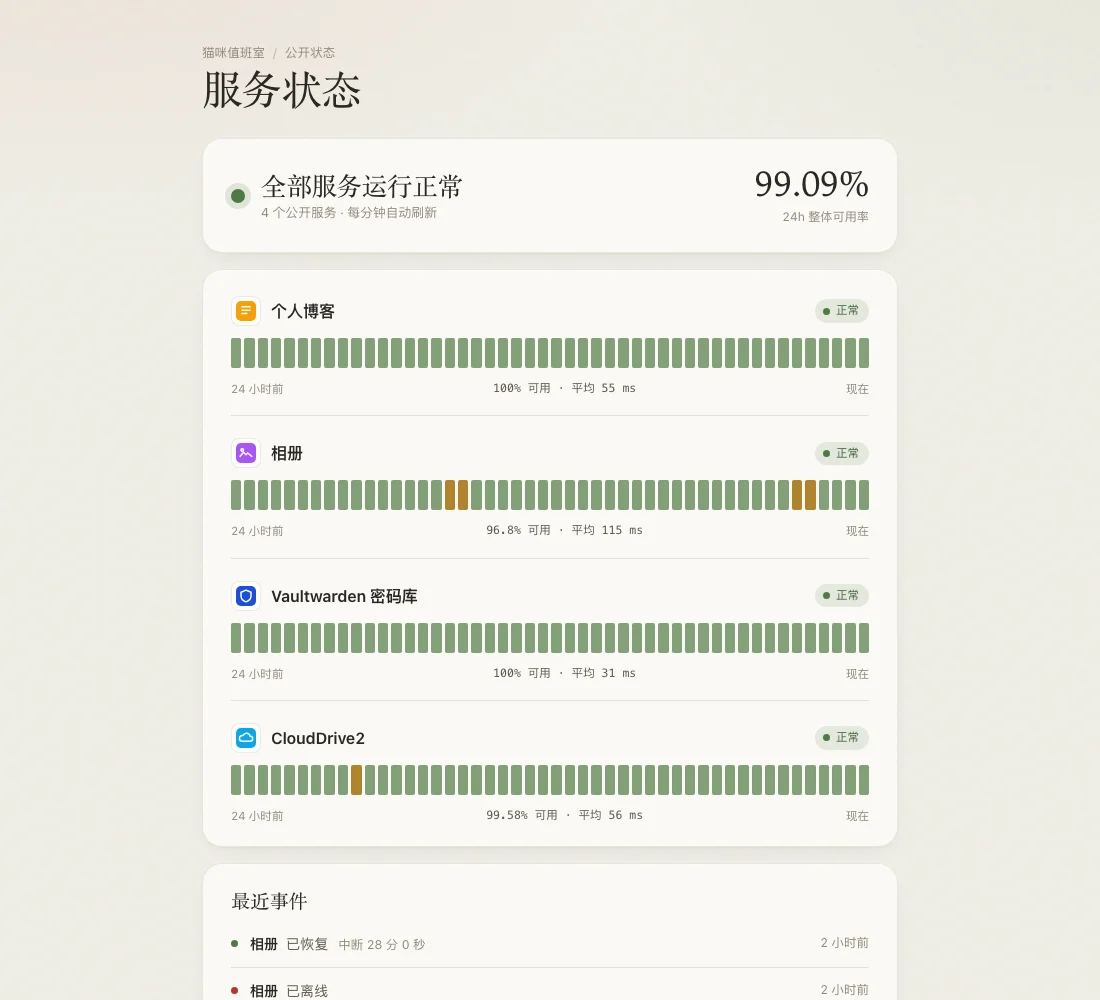
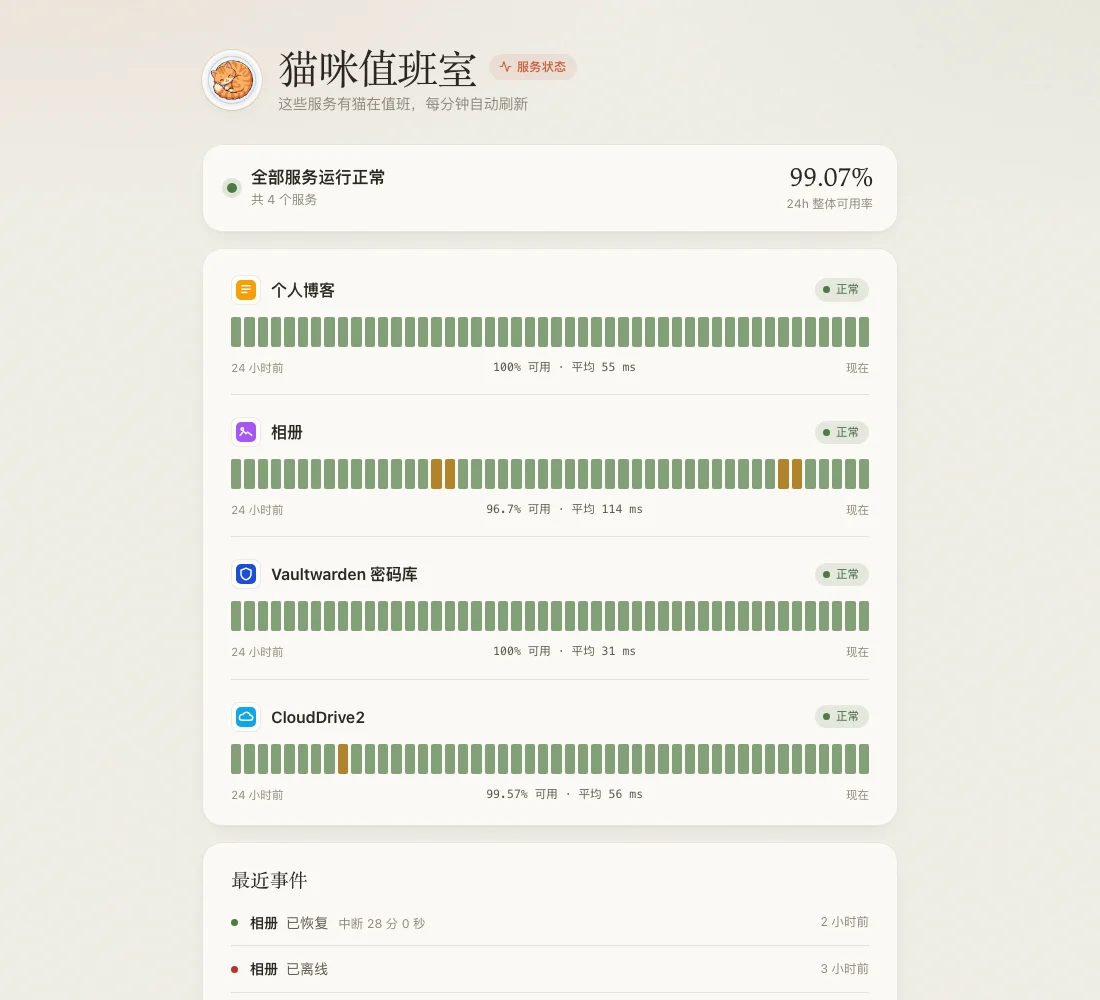
style: status page leads with the brand, with a small 服务状态 tag
The status page had two big headings fighting each other: a serif
"服务状态" title and an equally large "全部服务运行正常" banner.

- Header now mirrors the home page: cat avatar + 猫咪值班室 as the title,
  a small accent tag "服务状态" with a pulse icon, and a one-line note.
- The overall banner is a compact row (semibold sans text, smaller dot
  and uptime figure) and stays on one row on phones.
- Avatar is a 160px copy bundled under /assets/ so it loads for public
  visitors even when only the status paths bypass access control.
- README status screenshot refreshed.

diff --git a/src/style.css b/src/style.css
@@ -1519,6 +1519,42 @@ a {
   max-width: 760px;
 }
 
+/* 主角是品牌名，页面用途只用一枚小标签说明 */
+.status-title-row {
+  display: flex;
+  align-items: center;
+  flex-wrap: wrap;
+  gap: 6px 12px;
+}
+
+.status-title-row .brand-title {
+  margin-top: 0;
+}
+
+.status-page-tag {
+  display: inline-flex;
+  align-items: center;
+  gap: 5px;
+  padding: 4px 10px;
+  border-radius: var(--radius-full);
+  background: color-mix(in srgb, var(--accent) 10%, transparent);
+  color: var(--accent);
+  font-size: 0.76rem;
+  font-weight: 600;
+  letter-spacing: 0.02em;
+  white-space: nowrap;
+}
+
+.status-page-tag svg {
+  width: 13px;
+  height: 13px;
+  flex-shrink: 0;
+}
+
+.status-header .brand-subtitle {
+  color: var(--ink-3);
+}
+
 .status-main {
   flex: 1;
   display: flex;
@@ -1539,7 +1575,7 @@ a {
   align-items: center;
   justify-content: space-between;
   gap: 24px;
-  padding: 26px 28px;
+  padding: 18px 24px;
 }
 
 .status-hero.degraded {
@@ -1549,7 +1585,7 @@ a {
 
 .status-hero .obs-value {
   font-family: var(--font-serif);
-  font-size: 2.2rem;
+  font-size: 1.6rem;
   font-weight: 500;
   line-height: 1.1;
   letter-spacing: -0.02em;
@@ -1563,13 +1599,13 @@ a {
 .status-hero-main {
   display: flex;
   align-items: center;
-  gap: 16px;
+  gap: 14px;
   min-width: 0;
 }
 
 .status-overall-dot {
-  width: 14px;
-  height: 14px;
+  width: 10px;
+  height: 10px;
   border-radius: 50%;
   flex-shrink: 0;
   background: var(--ink-3);
@@ -1577,7 +1613,7 @@ a {
 
 .status-hero.ok .status-overall-dot {
   background: var(--alive);
-  box-shadow: 0 0 0 6px color-mix(in srgb, var(--alive) 16%, transparent);
+  box-shadow: 0 0 0 5px color-mix(in srgb, var(--alive) 16%, transparent);
 }
 
 .status-hero.degraded .status-overall-dot {
@@ -1586,11 +1622,14 @@ a {
 }
 
 .status-overall-text {
-  font-family: var(--font-serif);
-  font-size: 1.6rem;
-  font-weight: 500;
-  letter-spacing: -0.015em;
-  line-height: 1.25;
+  font-size: 1.05rem;
+  font-weight: 600;
+  line-height: 1.35;
+  color: var(--ink);
+}
+
+.status-hero.degraded .status-overall-text {
+  color: var(--dead);
 }
 
 .status-hero-sub {
@@ -1854,15 +1893,17 @@ a {
   }
 
   .status-hero {
-    flex-direction: column;
-    align-items: flex-start;
-    gap: 16px;
-    padding: 20px 18px;
+    gap: 12px;
+    padding: 16px 18px;
   }
 
-  .status-hero-metric {
-    align-items: flex-start;
-    padding-left: 30px;
+  .status-hero .obs-value {
+    font-size: 1.35rem;
+  }
+
+  .status-header .avatar-box {
+    width: 52px;
+    height: 52px;
   }
 
   .status-row .uptime-bars {

diff --git a/status.html b/status.html
@@ -31,8 +31,24 @@
 <body>
   <div class="app-container status-container">
     <header class="status-header">
-      <p class="masthead-eyebrow">猫咪值班室<span class="eyebrow-sep" aria-hidden="true">/</span>公开状态</p>
-      <h1 class="brand-title">服务状态</h1>
+      <div class="profile-brand">
+        <div class="avatar-box">
+          <!-- 走 /assets/：公开状态页可能挂在访问控制后面，只放行了 /assets/* -->
+          <img src="./src/assets/avatar-160.jpg" alt="" class="avatar-img" width="44" height="44" />
+        </div>
+        <div class="brand-text">
+          <div class="status-title-row">
+            <h1 class="brand-title">猫咪值班室</h1>
+            <span class="status-page-tag">
+              <svg viewBox="0 0 24 24" fill="none" stroke="currentColor" stroke-width="2.2" stroke-linecap="round" stroke-linejoin="round" aria-hidden="true">
+                <polyline points="22 12 18 12 15 21 9 3 6 12 2 12"></polyline>
+              </svg>
+              服务状态
+            </span>
+          </div>
+          <p class="brand-subtitle">这些服务有猫在值班，每分钟自动刷新</p>
+        </div>
+      </div>
     </header>
 
     <main class="status-main" id="statusRoot"></main>

diff --git a/shared/statusPage.js b/shared/statusPage.js
@@ -71,7 +71,7 @@ export function renderStatusBody(payload, formatTime) {
         <span class="status-overall-dot"></span>
         <div>
           <p class="status-overall-text">${escapeHtml(overall.text)}</p>
-          <p class="status-hero-sub">${services.length} 个公开服务 · 每分钟自动刷新</p>
+          <p class="status-hero-sub">共 ${services.length} 个服务</p>
         </div>
       </div>
       ${
